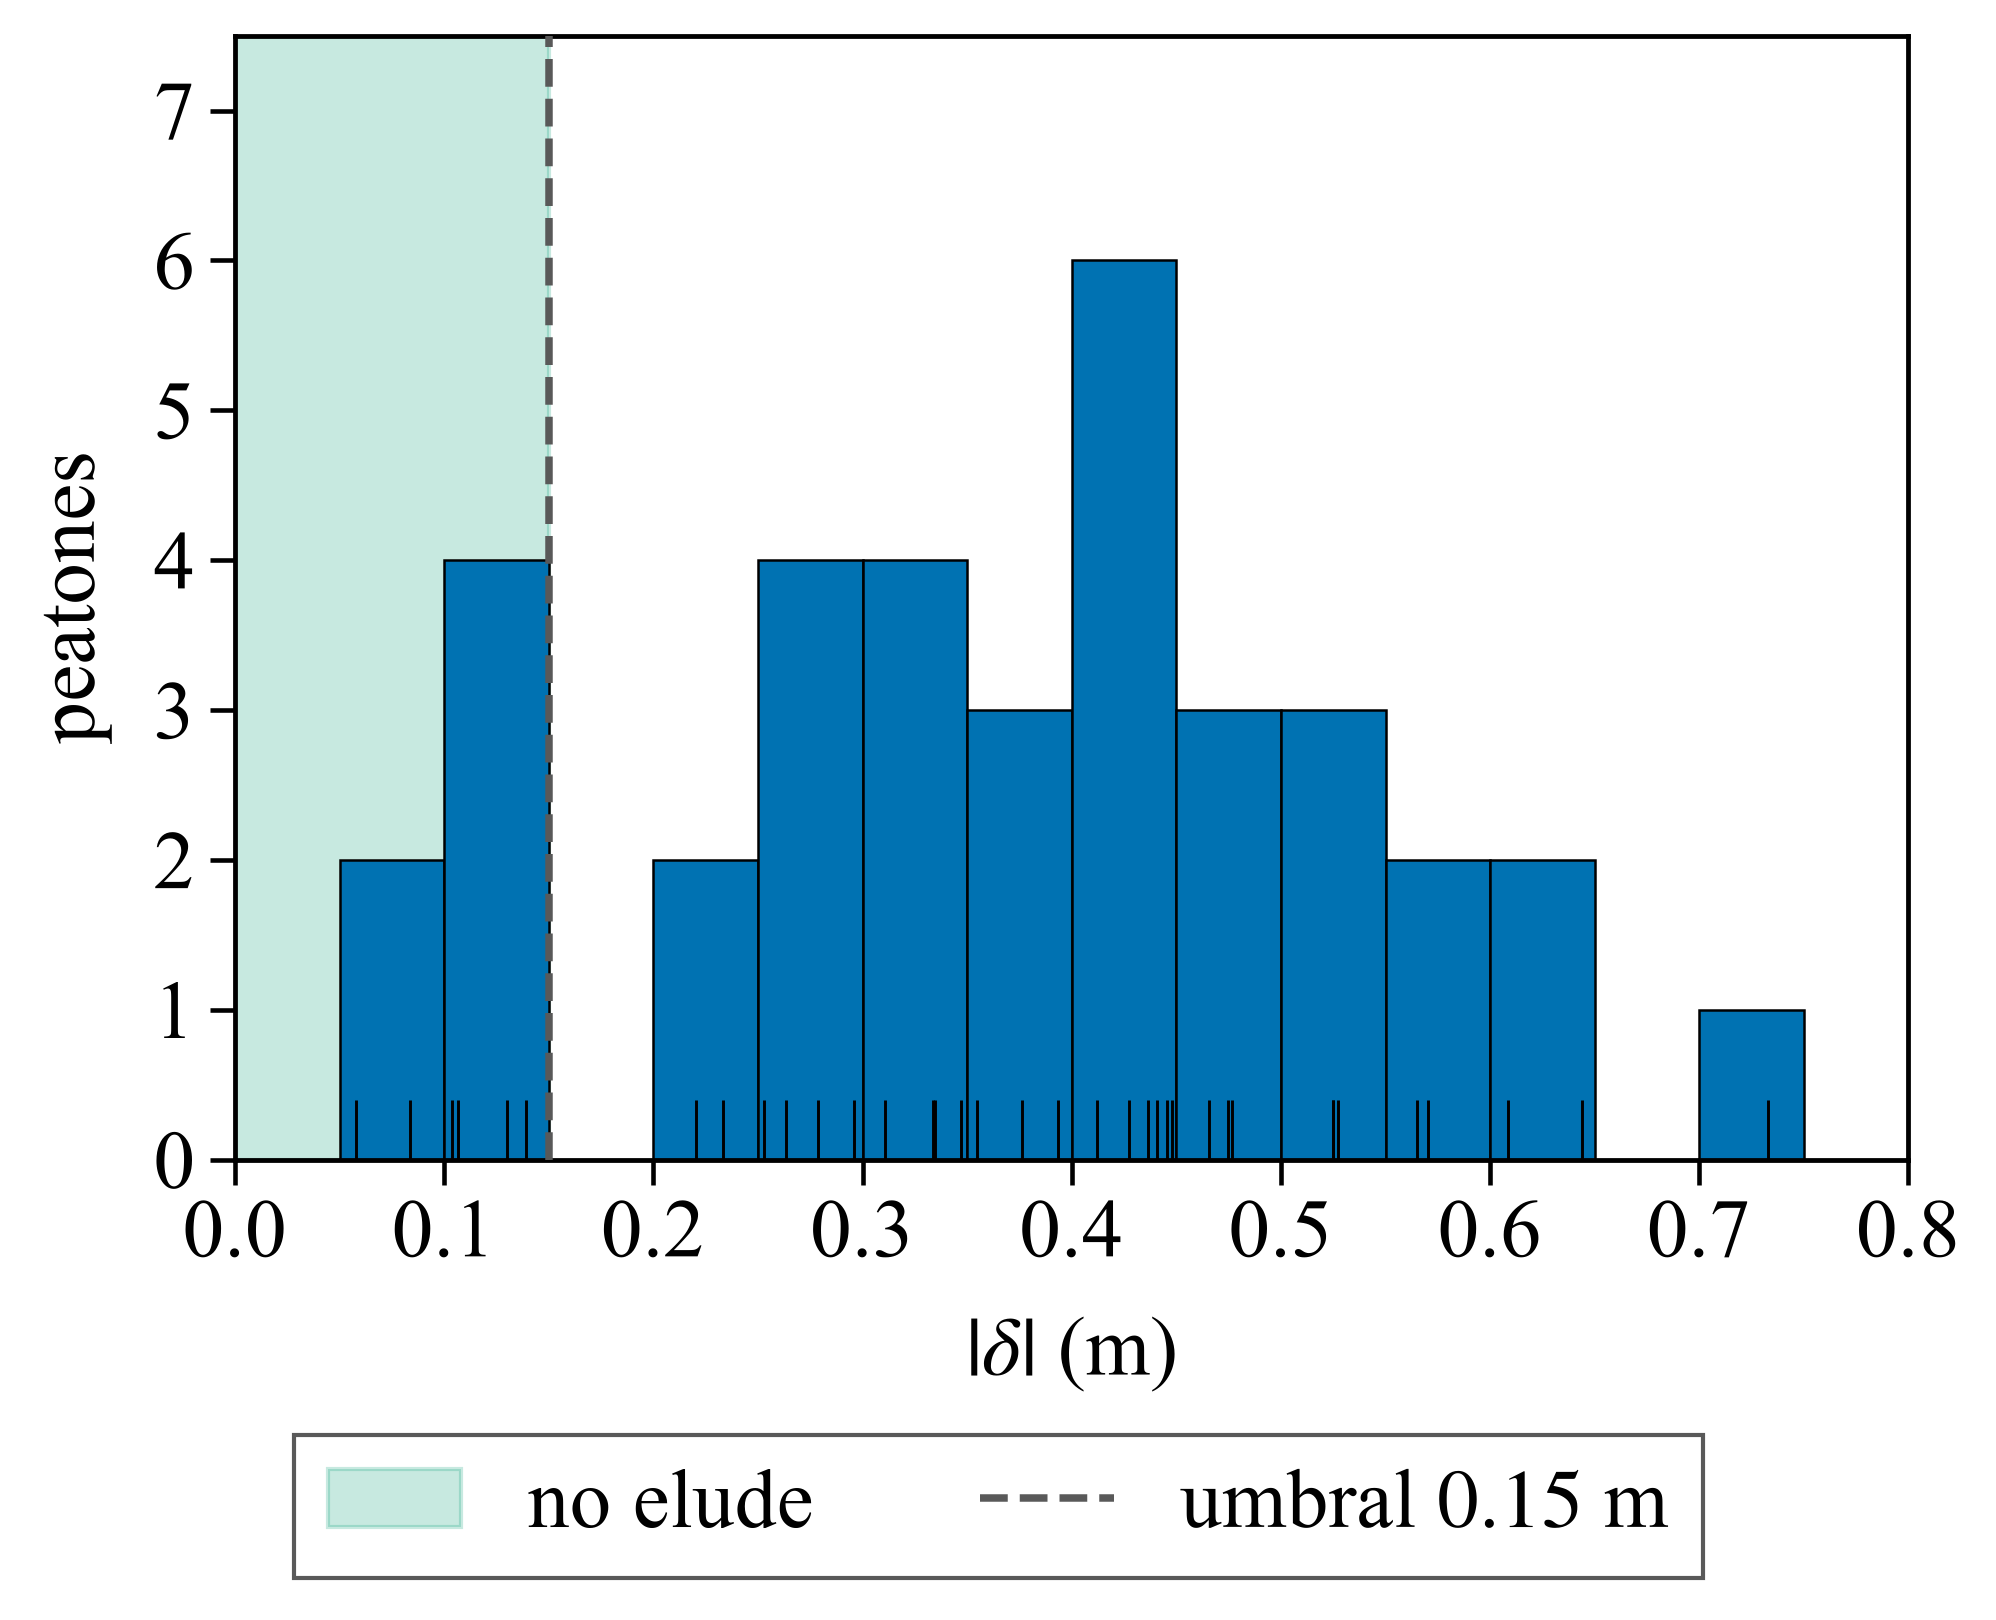
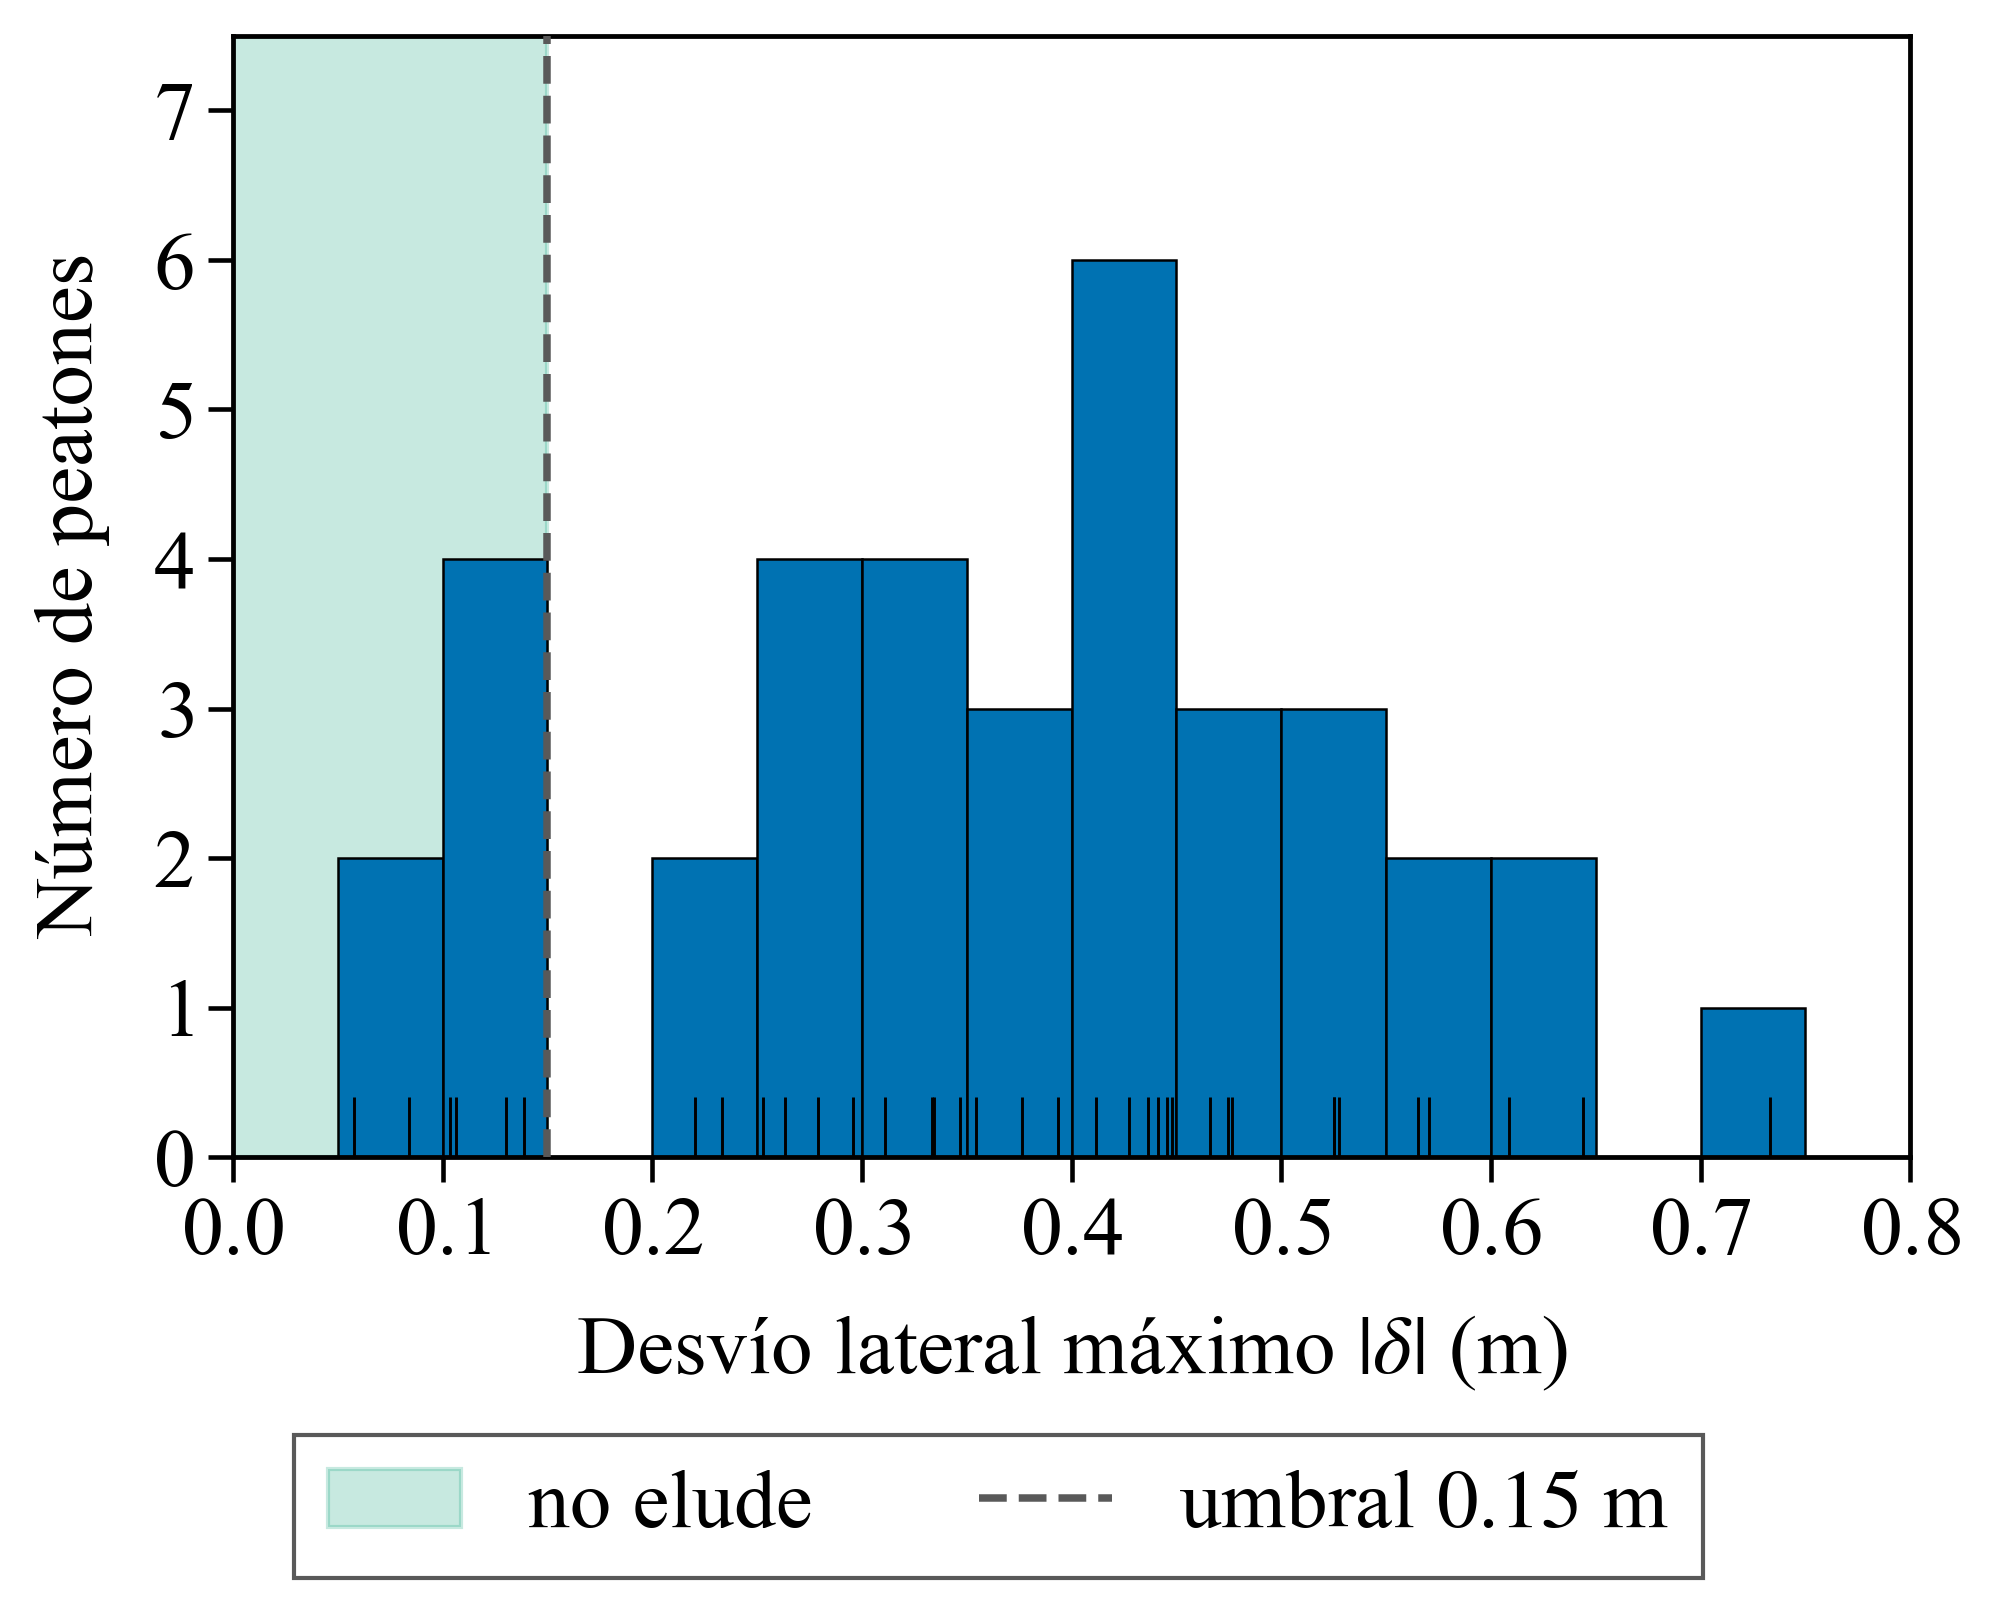
Annex update

diff --git a/scripts/analyze_behavior.py b/scripts/analyze_behavior.py
@@ -21,7 +21,7 @@ from lib.plot_style import (
     save_figure,
     style_axes,
 )
-from lib.traj import DEFAULT_CROSSINGS_DIR, DEFAULT_TRIALS_PATH, Position, read_experiment, read_trials
+from lib.traj import DEFAULT_TRIALS_PATH, Position, read_experiment, read_trials
 
 NO_EVADE_M = 0.15
 AMBIGUOUS_LO_M = NO_EVADE_M - 0.02
@@ -30,6 +30,9 @@ AMBIGUOUS_HI_M = NO_EVADE_M + 0.02
 _SIDE_HEADER = re.compile(r"#\s*(izquierda|derecha):\s*id\s+([^,\s]+)", re.IGNORECASE)
 
 _REPO_ROOT = Path(__file__).resolve().parent.parent
+# Original crossings, not cruces_postprocess: that set mirrors the left-evading events for the simulation,
+# and this study is precisely about which side real pedestrians choose.
+DEFAULT_IN_DIR = _REPO_ROOT / "data" / "cruces"
 DEFAULT_OUT_DIR = _REPO_ROOT / "data" / "behavior"
 
 
@@ -445,9 +448,9 @@ def plot_deviations(trials: list[Trial], out_path: Path) -> None:
 
 def plot_histogram(trials: list[Trial], out_path: Path) -> None:
     groups = (
-        ("a su derecha", "derecha", BLUE),
-        ("a su izquierda", "izquierda", VERMILLION),
-        ("no elude", "no_elude", GREEN),
+        ("A su derecha", "derecha", BLUE),
+        ("A su izquierda", "izquierda", VERMILLION),
+        ("No elude", "no_elude", GREEN),
     )
     labels: list[str] = []
     means: list[float] = []
@@ -479,7 +482,7 @@ def plot_histogram(trials: list[Trial], out_path: Path) -> None:
         zorder=3,
     )
     ax.set_ylim(0.0, max(mean + std for mean, std in zip(means, stds)) * 1.15)
-    style_axes(ax, "lado de elusión", r"$|\delta|$ (m)")
+    style_axes(ax, "Lado de elusión", r"Desvío lateral máximo $|\delta|$ (m)")
     save_figure(fig, out_path)
 
 
@@ -518,7 +521,7 @@ def plot_deviation_distribution(trials: list[Trial], out_path: Path) -> None:
         label=rf"umbral ${NO_EVADE_M:.2f}$ m",
     )
     top = int(max(counts))
-    style_axes(ax, r"$|\delta|$ (m)", "peatones")
+    style_axes(ax, r"Desvío lateral máximo $|\delta|$ (m)", "Número de peatones")
     ax.set_xlim(0.0, right)
     ax.set_ylim(0.0, top + 1.5)
     ax.set_xticks([round(tick * 0.1, 1) for tick in range(int(round(right / 0.1)) + 1)])
@@ -572,8 +575,8 @@ def main() -> None:
     parser.add_argument(
         "--in-dir",
         type=Path,
-        default=DEFAULT_CROSSINGS_DIR,
-        help=f"crossing files (default: {DEFAULT_CROSSINGS_DIR})",
+        default=DEFAULT_IN_DIR,
+        help=f"original (unmirrored) crossing files (default: {DEFAULT_IN_DIR})",
     )
     parser.add_argument(
         "--trials-file",

diff --git a/docs/presentation/secciones/anexo.tex b/docs/presentation/secciones/anexo.tex
@@ -41,3 +41,82 @@
     \end{column}
   \end{columns}
 \end{frame}
+
+\begin{frame}{Distribución de $|\delta|$}
+  \begin{cols}
+    \begin{column}{0.62\textwidth}
+      \figura{desvios_distribucion.png}
+    \end{column}
+    \begin{column}{0.34\textwidth}
+      \begin{parametros}
+        \item $18$ eventos, $36$ peatones
+        \item $|\delta| = \max_k \big|(\vv{r}_k - \vv{r}_0)\cdot\hat{\vv{n}}\big|$
+        \item $\hat{\vv{n}}$: normal a $\vv{r}_f - \vv{r}_0$, hacia la derecha del peatón
+        \item Ancho de bin $0.05\uni{m}$
+      \end{parametros}
+      \vspace{6pt}
+      \begin{resultado}
+        \item Ningún peatón entre $0.15$ y $0.20\uni{m}$: umbral de elusión $0.15\uni{m}$
+        \item $6$ peatones por debajo del umbral
+      \end{resultado}
+    \end{column}
+  \end{cols}
+\end{frame}
+
+\begin{frame}{Lado de elusión en los cruces experimentales}
+  \centering
+  \renewcommand{\arraystretch}{1.4}
+  \begin{columns}[T]
+    \begin{column}{0.46\textwidth}
+      \centering{\small Por peatón}\par\smallskip
+      \begin{tabular}{lc}
+        \hline
+        Elude a su derecha & $22$ \\
+        Elude a su izquierda & $8$ \\
+        \hline
+      \end{tabular}
+    \end{column}
+    \begin{column}{0.46\textwidth}
+      \centering{\small Por evento}\par\smallskip
+      \begin{tabular}{lc}
+        \hline
+        Ambos a su derecha & $9$ \\
+        Ambos a su izquierda & $3$ \\
+        Ambos, a lados opuestos & $0$ \\
+        Elude uno solo & $6$ \\
+        Ninguno elude & $0$ \\
+        \hline
+      \end{tabular}
+    \end{column}
+  \end{columns}
+
+  \vspace{12pt}
+  \begin{columns}[T]
+    \begin{column}{0.46\textwidth}
+      \begin{parametros}
+        \item Lado: signo de $\delta$ ($\delta > 0$: a su derecha)
+      \end{parametros}
+    \end{column}
+    \begin{column}{0.46\textwidth}
+      \begin{resultado}
+        \item Si eluden los dos, siempre hacia el mismo lado
+        \item Elusión a la izquierda en $5$ eventos ($6$, $8$, $10$, $12$ y $14$)
+      \end{resultado}
+    \end{column}
+  \end{columns}
+\end{frame}
+
+\begin{frame}{$|\delta|$ según el lado de elusión}
+  \begin{cols}
+    \begin{column}{0.62\textwidth}
+      \figura{desvios_histograma.png}
+    \end{column}
+    \begin{column}{0.34\textwidth}
+      \begin{resultado}
+        \item A su derecha: $0.4 \pm 0.1\uni{m}$
+        \item A su izquierda: $0.5 \pm 0.1\uni{m}$
+        \item No elude: $0.10 \pm 0.03\uni{m}$
+      \end{resultado}
+    \end{column}
+  \end{cols}
+\end{frame}
